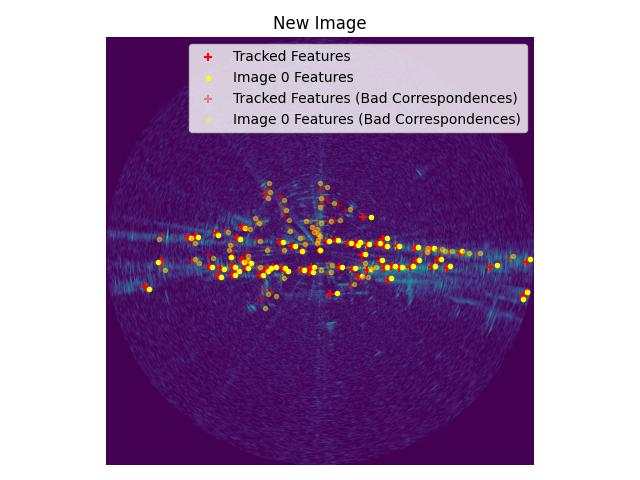
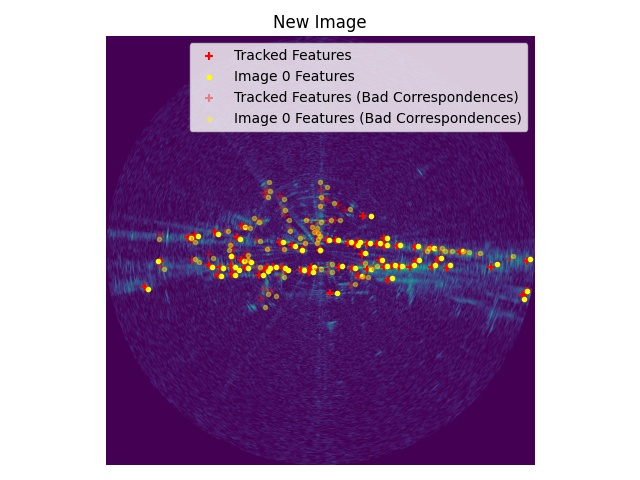
multiply h transform by RANGE_RESOLUTION_M

Changed region(s): [[0.2812, 0.0312, 0.8438, 0.2812], [0.2188, 0.375, 0.8438, 0.6562], [0.2188, 0.5938, 0.25, 0.625]]

diff --git a/trajectoryPlotting.py b/trajectoryPlotting.py
@@ -26,8 +26,6 @@ class Trajectory():
         transf_x = float(h[0])
         transf_y = float(h[1])
 
-        # TODO: Supposedly 
-
         # Pose x y theta
         x, y, th = self.poses[-1,:]
 
@@ -37,7 +35,7 @@ class Trajectory():
 
         print(f"Time {t}: [{x_p:.2f},{y_p:.2f},{th_p:.2f}]")
     
-    def getPoseAtTime(self, t):
+    def getPoseAtTime(self, times):
         '''
         @brief Given timestamps, return the pose at that time using cubic interpolation
         @param[in] t float or np.ndarray of timestamps
@@ -46,10 +44,13 @@ class Trajectory():
             self.interpX = scipy.interpolate.interp1d(self.timestamps, self.poses[:,0], kind='cubic', bounds_error=False)
             self.interpY = scipy.interpolate.interp1d(self.timestamps, self.poses[:,1], kind='cubic', bounds_error=False)
             self.interpTH = scipy.interpolate.interp1d(self.timestamps, self.poses[:,1], kind='cubic', bounds_error=False)
-            return np.vstack((self.interpX(t), self.interpY(t), self.interpTH(t))).T
+            return np.vstack((self.interpX(times), self.interpY(times), self.interpTH(times))).T
         except:
-            print("Error: Could not interpolate trajectory")
-            return np.zeros((len(t), 3))
+            print("Warning: Could not interpolate trajectory")
+            poses = np.zeros((len(times), 3))
+            for i,t in enumerate(times):
+                poses[i,:] = self.poses[np.argmin(np.abs(self.timestamps - t))]
+            return poses
 
     def plotTrajectory(self, block=False):
         fig = plt.figure()

diff --git a/getTransformKLT.py b/getTransformKLT.py
@@ -1,14 +1,13 @@
 import shutil
-from cairo import Status
 import numpy as np
 import cv2
 import os, sys
-from getFeatures import getFeatures, appendNewFeatures
+from getFeatures import appendNewFeatures
 
 import matplotlib.pyplot as plt
 from outlierRejection import rejectOutliersRadarGeometry
 
-from parseData import getCartImageFromImgPaths, getRadarImgPaths
+from parseData import getCartImageFromImgPaths, getRadarImgPaths, RANGE_RESOLUTION_M
 from utils import tic, toc
 
 from trajectoryPlotting import Trajectory, getGroundTruthTrajectory, plotGtAndEstTrajectory
@@ -121,7 +120,7 @@ def calculateTransform(
 
     # Approximate least squares solution
     R = np.array([[1, -float(x[0])], [float(x[0]), 1]])
-    h = x[1:]
+    h = x[1:] * RANGE_RESOLUTION_M
     '''
     # Iterative version: for precise R estimate
     num_iters = 0

diff --git a/img/render_gif.py b/img/render_gif.py
@@ -9,4 +9,4 @@ for fname in sorted(
 ):
     print(fname)
     images.append(imageio.imread(fname))
-imageio.mimsave("track_klt_thresholding/full_seq_1_traj.gif", images, fps=10)
+imageio.mimsave("track_klt_thresholding/full_seq_1_traj_1.gif", images, fps=10)
